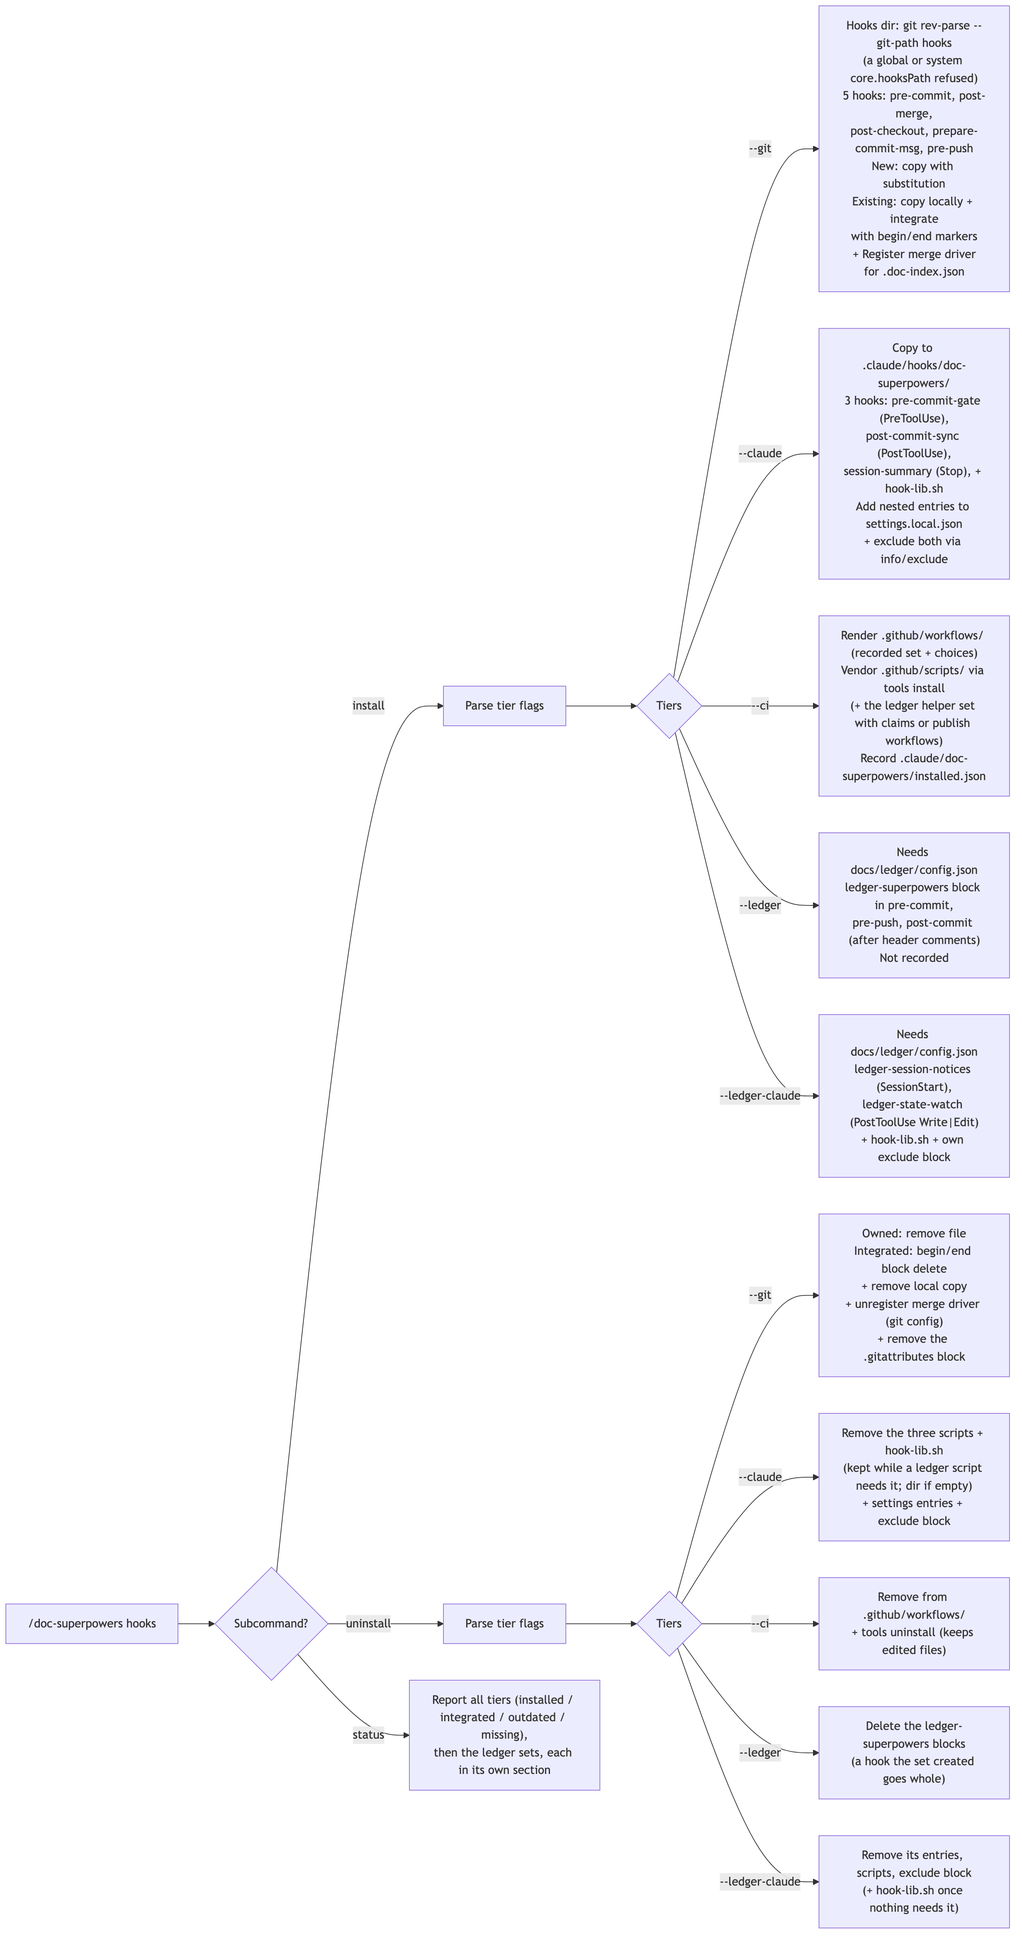
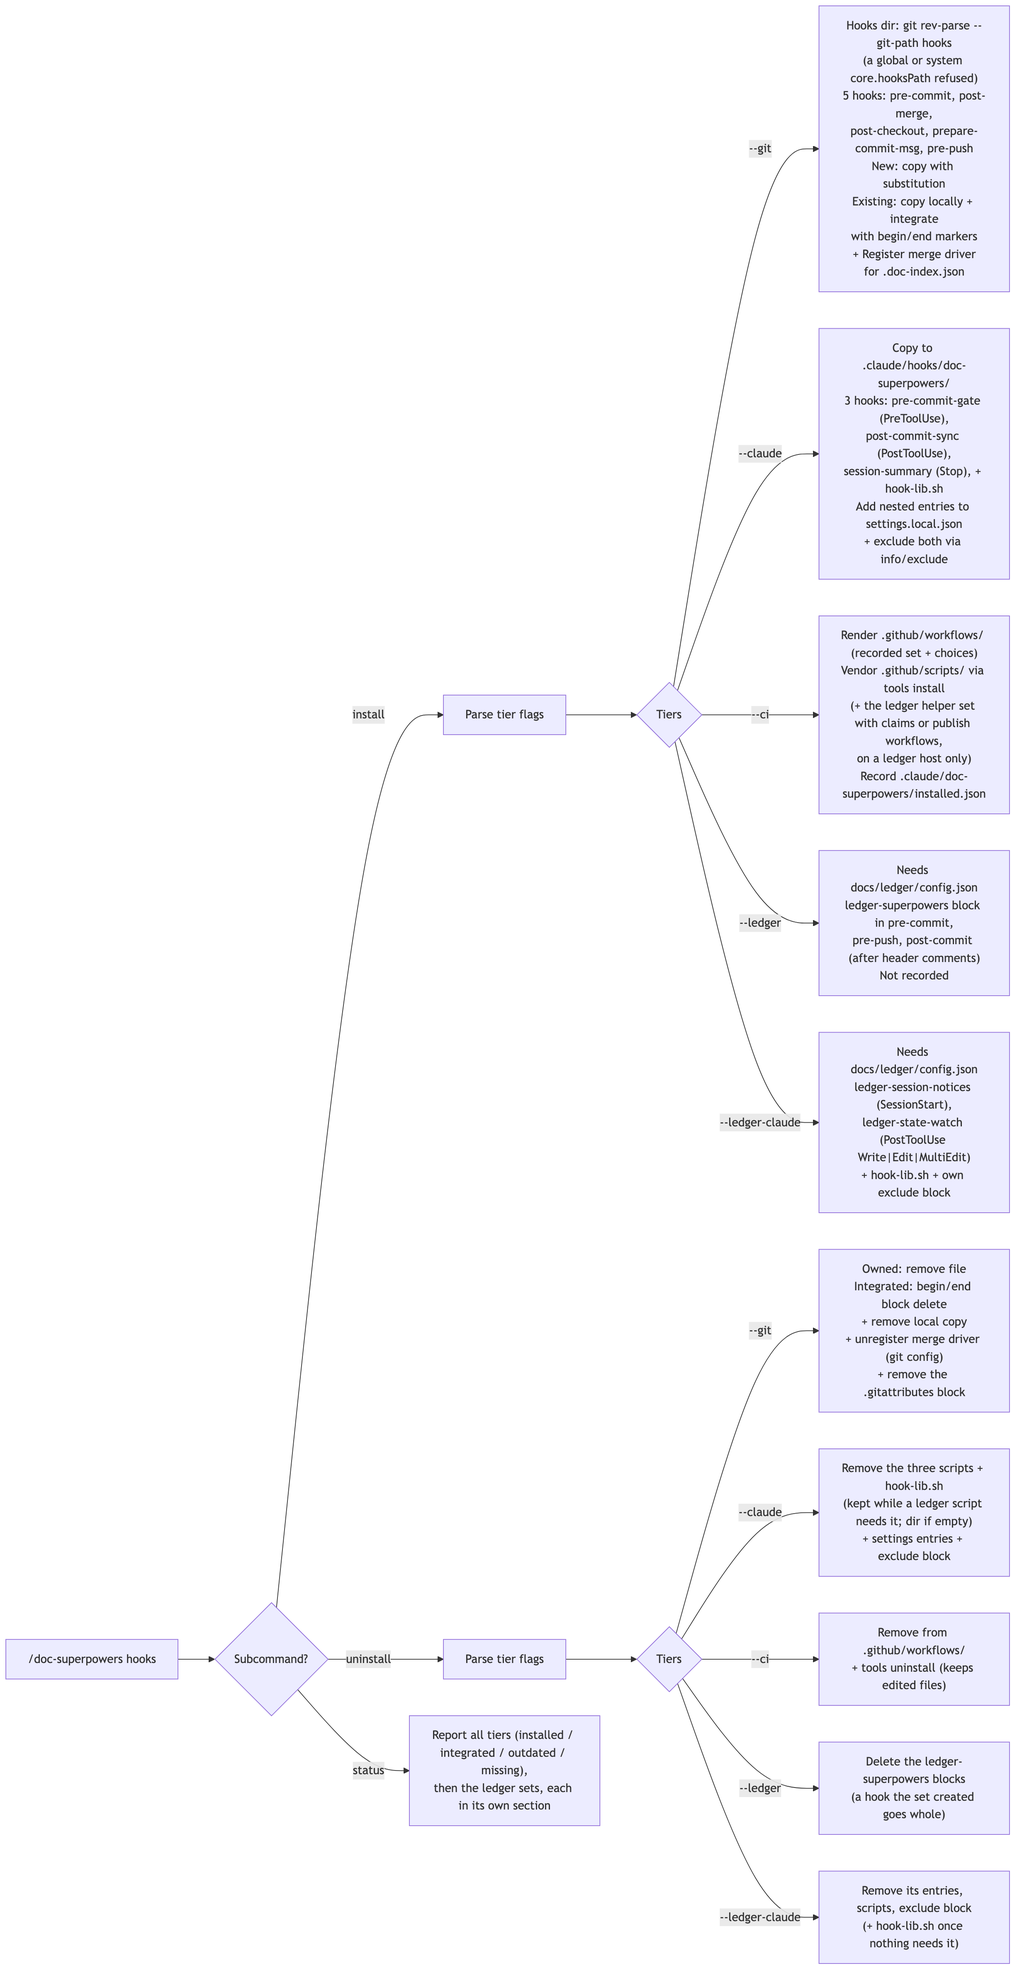
docs: suggest in the living docs; re-render workflow-hooks and c4-container
codebase-guide, system-overview, workflows and getting-started name the
suggest verb (19 ledger verbs). workflow-hooks.png shows the
Write|Edit|MultiEdit matcher and c4-container.png the 19 verbs, both
rendered with mmdc 11.6.0 and headless system Chrome (c4.wrap false,
width 1248, scale 2; same dimensions as before). The five docs Task 3
made stale were re-read and re-baselined with update-index.

diff --git a/docs/codebase-guide.md b/docs/codebase-guide.md
@@ -36,14 +36,14 @@ doc-superpowers/
 ├── gemini-extension.json # Gemini CLI extension manifest
 ├── package.json          # npm/OpenCode package metadata
 ├── scripts/
-│   ├── doc-tools.sh      # Bundled freshness tooling (build-index, check-freshness, update-index, add-entry, remove-entry, move-entry, set-code-refs, set-doc-type, deprecate-entry, status, audit-merges, bump-version, check-version, implementation-status, set-implementation, fragments {list, validate, merge}, tools {install, uninstall, status, version}, claims {validate, run, promote, render, gate, attest, rulings}, ledger {show, ls, find, related, sweep, recheck, inflight, notices, state-watch, new, assign, link, note, view, validate, publish, finalize, init})
+│   ├── doc-tools.sh      # Bundled freshness tooling (build-index, check-freshness, update-index, add-entry, remove-entry, move-entry, set-code-refs, set-doc-type, deprecate-entry, status, audit-merges, bump-version, check-version, implementation-status, set-implementation, fragments {list, validate, merge}, tools {install, uninstall, status, version}, claims {validate, run, promote, render, gate, attest, rulings}, ledger {show, ls, find, related, suggest, sweep, recheck, inflight, notices, state-watch, new, assign, link, note, view, validate, publish, finalize, init})
 │   ├── ledger/           # The work ledger, sourced by doc-tools.sh (_lg_enter) for a ledger verb in a repository with docs/ledger/config.json, for ledger init without one, and by claims V5 on a ledger host
 │   │   ├── lib.sh              # Config load/merge (config.jq), verdict helpers, the doc-index wrapper; sources the 12 modules below
 │   │   ├── parse.sh glob.sh    # Item parsing with a per-file cache (worktree, staged, base blobs); glob → ERE and path ownership
 │   │   ├── index.sh            # The index build, its joins (registry, doc-index, git, PRs, claims) and caches; derived status
 │   │   ├── keys.sh             # Resolution, the counter ref and its CAS, allocation, provisional keys, finalize; new, assign, finalize
 │   │   ├── validate.sh query.sh   # validate --staged|--all|--plan|--pushed|--registry; show, ls, find, new, link, note
-│   │   ├── relations.sh        # Contracts, neighbours, candidates, related, recheck, sweep, commit-trailer parsing
+│   │   ├── relations.sh        # Contracts, neighbours, candidates, related, recheck, suggest, sweep, commit-trailer parsing
 │   │   ├── views.sh adapters.sh   # view and publish; adapter calls, JSON-lines validation, the remote cache (TTL)
 │   │   ├── inflight.sh         # Branch scan, in-flight refs and facts, inflight, notices, acks, push, prune
 │   │   ├── init.sh hooks.sh    # ledger init (report, accept, import); the hook modes (notices --hook, state-watch --hook)
@@ -141,7 +141,7 @@ doc-superpowers/
 | File | Purpose | When to Modify |
 |------|---------|---------------|
 | `skills/doc-superpowers/SKILL.md` | Core skill logic: Quick Reference (actions + references), Safety Rules (trust boundary, secrets, confirm before moving docs, never auto-run repository scripts), discovery phase (tool resolution through `${CLAUDE_SKILL_DIR}/../..`, the index-write routing table, scopes, agentic inventory), 12 action handlers (init, audit, review-pr, update, diagram, sync, hooks, release, spec-generate, spec-inject, spec-verify, ledger — `release`, `hooks`, `ledger` and the spec actions hand their procedures to REQUIRED references), verification gates, error handling, common mistakes | Adding/changing actions, modifying agent behavior, updating discovery logic |
-| `scripts/doc-tools.sh` | Bundled freshness tooling with 19 subcommands: `build-index`, `check-freshness`, `update-index` (a baseline reset, never a verification: the only writer of `last_verified`), `add-entry`, `remove-entry`, `move-entry` (re-key an entry after a doc moves, preserving `code_refs`/`code_oids`/`code_commit`/`last_verified`, and repoint other entries' `replaces`/`superseded_by`/`code_refs`/`code_oids` naming it — the lossless alternative to `remove-entry` + `add-entry`; `--stdin` for a batch), `audit-merges` (replay index merges through the driver as an oracle, read-only), `set-code-refs` (change an entry's `code_refs` in place), `set-doc-type` (change an entry's `doc_type` in place: record or living doc), `deprecate-entry` (also sets the successor's `replaces`), `status`, `bump-version`, `check-version`, `implementation-status`, `set-implementation`, `fragments {list, validate, merge}`, `tools {install, uninstall, status, version}` (vendors doc-tools.sh + the CI helpers into a consumer repo; prints the plugin's version), `claims {validate, run, promote, render, gate, attest, rulings}` (executable spec claims, inert without `docs/spec-claims/`: `references/spec-claims.md`), `ledger {show, ls, find, related, sweep, recheck, inflight, notices, state-watch, new, assign, link, note, view, validate, publish, finalize, init}` (the work ledger, every verb but `init` inert without `docs/ledger/config.json`: `references/ledger.md`; `doc-tools.sh` holds its dispatch, inert check and verdict helpers, the verbs live in `scripts/ledger/`). Content hashing for docs, content identity for code (each code ref's git object id, `code_oids`, compared with one `git cat-file --batch-check`), SHA-256 hashing for per-PR release-notes fragments. Every write to `docs/.doc-index.json` goes through one locked, atomic writer (`_index_apply`; see Code Flow → "Index write path") | Changing staleness detection, index schema, version sync, fragment parsing, adding subcommands, changing how the index is persisted |
+| `scripts/doc-tools.sh` | Bundled freshness tooling with 19 subcommands: `build-index`, `check-freshness`, `update-index` (a baseline reset, never a verification: the only writer of `last_verified`), `add-entry`, `remove-entry`, `move-entry` (re-key an entry after a doc moves, preserving `code_refs`/`code_oids`/`code_commit`/`last_verified`, and repoint other entries' `replaces`/`superseded_by`/`code_refs`/`code_oids` naming it — the lossless alternative to `remove-entry` + `add-entry`; `--stdin` for a batch), `audit-merges` (replay index merges through the driver as an oracle, read-only), `set-code-refs` (change an entry's `code_refs` in place), `set-doc-type` (change an entry's `doc_type` in place: record or living doc), `deprecate-entry` (also sets the successor's `replaces`), `status`, `bump-version`, `check-version`, `implementation-status`, `set-implementation`, `fragments {list, validate, merge}`, `tools {install, uninstall, status, version}` (vendors doc-tools.sh + the CI helpers into a consumer repo; prints the plugin's version), `claims {validate, run, promote, render, gate, attest, rulings}` (executable spec claims, inert without `docs/spec-claims/`: `references/spec-claims.md`), `ledger {show, ls, find, related, suggest, sweep, recheck, inflight, notices, state-watch, new, assign, link, note, view, validate, publish, finalize, init}` (the work ledger, every verb but `init` inert without `docs/ledger/config.json`: `references/ledger.md`; `doc-tools.sh` holds its dispatch, inert check and verdict helpers, the verbs live in `scripts/ledger/`). Content hashing for docs, content identity for code (each code ref's git object id, `code_oids`, compared with one `git cat-file --batch-check`), SHA-256 hashing for per-PR release-notes fragments. Every write to `docs/.doc-index.json` goes through one locked, atomic writer (`_index_apply`; see Code Flow → "Index write path") | Changing staleness detection, index schema, version sync, fragment parsing, adding subcommands, changing how the index is persisted |
 | `scripts/test-doc-tools.sh` | Comprehensive test suite for doc-tools.sh — tests all subcommands (including `fragments`), edge cases, error handling; plus the static guards over the shipped scripts (no bash-4-only construct, no jq-1.7-only form in a jq program) | Adding tests for new doc-tools features |
 | `scripts/test-doc-pr-release.sh` | Test suite for the CI workflow helpers (on the shared `test-helpers.sh` harness) — covers `extract-context.sh`, `update-pr-body.sh`, `commit-and-push.sh`, the `run:` step scripts in `doc-superpowers-steps/` (run as a workflow step runs them, from an installed fixture), workflow YAML placeholder substitution, template structure/wiring, and the installed templates' rules (fail closed, scalar outputs, timeouts, pins, AI token/plugin/tools, same-repo guard, write group, checked commit) (missing YAML parser = loud SKIP locally, FAIL in CI) | Adding tests for the fragment producer workflow or its helpers |
 | `scripts/test-spec-claims.sh` | Test suite for the `claims` verb group (on the shared `test-helpers.sh` harness): one fixture per check V1–V12, the run / promote / gate / attest / rulings flows, the inert contract and replay fixtures, driven through `/bin/sh` stub adapters in throwaway fixture repos | Changing any `claims` verb, check, adapter contract or gate record |
@@ -417,7 +417,7 @@ User invokes /doc-superpowers hooks install --ledger [--ledger-claude] (never pa
 
 ### Work ledger (every `ledger` verb)
 
-The 18 <!-- T3: verify against code (suggest makes 19) --> `ledger` verbs share one path (`references/ledger.md` is the contract): `scripts/doc-tools.sh` dispatches and decides inertness, `scripts/ledger/` does the work.
+The 19 `ledger` verbs share one path (`references/ledger.md` is the contract): `scripts/doc-tools.sh` dispatches and decides inertness, `scripts/ledger/` does the work.
 
 ```
 doc-tools.sh ledger <verb> [options] [args]

diff --git a/docs/architecture/system-overview.md b/docs/architecture/system-overview.md
@@ -74,7 +74,7 @@ C4Container
     Container(templates, "Template System", "references/doc-spec.md", "Doc templates + agentic workflow templates + Mermaid syntax + naming conventions")
     Container(doctools, "Freshness Tooling", "scripts/doc-tools.sh", "19 subcommands: doc-index (build, check, update, add/remove/move/deprecate entries, set-code-refs, set-doc-type, status, audit-merges), version sync, ADR/SPEC realization, release-notes fragments, vendoring (tools), the claims verbs (Spec Claims) and the ledger verbs (Work Ledger)")
     Container(claims, "Spec Claims", "doc-tools.sh claims <verb>", "Opt-in executable spec claims (references/spec-claims.md): validate, run, promote, render, gate, attest, rulings. Inert without docs/spec-claims/. Own exit family: 0, 1 findings, 2 could not run (never a pass), 3 usage. With the ledger on, V5 reads item status classes")
-    Container(ledger, "Work Ledger", "scripts/ledger/ via doc-tools.sh ledger", "Opt-in (docs/ledger/config.json; references/ledger.md): 18 verbs over items, keys, views, related work, in-flight notices. Inert without the config. The claims exit family. bash 3.2 + jq")
+    Container(ledger, "Work Ledger", "scripts/ledger/ via doc-tools.sh ledger", "Opt-in (docs/ledger/config.json; references/ledger.md): 19 verbs over items, keys, views, related work, in-flight notices. Inert without the config. The claims exit family. bash 3.2 + jq")
     Container(verification, "Verification Gates", "SKILL.md Section 2 + update step 8", "Three-layer verification: agent evidence and freshness checks (Section 2), human review of the diff (update step 8)")
     Container(hooks, "Hooks Engine", "scripts/hooks/install.sh + state.sh", "3-tier opt-in installer (references/hooks.md): 5 git hooks, 3 per-user Claude Code hook scripts, CI workflow templates (shell set by default, the rest by name), the merge driver's registration; plus the ledger's opt-in sets (--ledger: 3 git legs; --ledger-claude: 2 events), never in --all. Records only the CI tier in installed.json")
     Container(mergedriver, "Merge Driver", "scripts/merge-doc-index.sh", "Base-aware per-key three-way merge of docs/.doc-index.json on merge, rebase, cherry-pick and revert. A separate jq program that does not call doc-tools.sh")
@@ -172,7 +172,7 @@ C4Container
 | Spec Lifecycle Protocol | `references/spec-lifecycle-protocol.md` | Integration guide defining input/output contracts for wrapper skill authors, and the claims Direction protocol (`CODE-DIVERGES`, `DOC-STALE`, `RETIRE`, its policy keys and their defaults) |
 | Spec Lifecycle Actions | `references/spec-lifecycle-actions.md` | REQUIRED reference for `spec-generate`, `spec-inject` and `spec-verify`: their detailed procedures and the canonical Spec Status Model |
 | Spec Claims | `scripts/doc-tools.sh claims <verb>` + `references/spec-claims.md` | Executable spec claims, opt-in: the directory `docs/spec-claims/` is the switch, and without it every verb prints `{"verb":…,"enabled":false,"exit":0}` (once its command line parses, its dependencies are present and it runs at a repository's top level). `references/spec-claims.md` is REQUIRED while the directory exists. Seven verbs (`validate`, `run`, `promote`, `render`, `gate`, `attest`, `rulings`) with their own exit family: `0`, `1` findings, `2` could not run (never reported as a pass), `3` usage; precedence 1 > 2 > 0. Stores: `config.json` and one sidecar `<DOC-ID>.json` per governing doc in `docs/spec-claims/`; the gate records `gates/<plan-stem>/chunk-<n>.json` and `final.json` (`gate` and `attest --final` write them even when red); the local verdict store `$(git rev-parse --git-common-dir)/spec-claims/promotions/` (never committed; `promote` writes it); each governing doc's generated `## Claim status` block (`render`, `promote`). Host adapters (a runner per test framework, a log adapter, a config adapter) run from the top level with stdin `/dev/null`, and their output is parsed fail-closed. A range is the branch's own work: its first-parent, non-merge commits plus each first-parent merge's own conflict resolutions (`git show --remerge-diff`, git ≥ 2.36) |
-| Work Ledger | `scripts/doc-tools.sh ledger <verb>` + `scripts/ledger/` + `scripts/adapters/` | The work ledger, opt-in: `docs/ledger/config.json` is the switch (`{}` is complete), and without it every verb but `init` prints `ledger: not enabled (no docs/ledger/config.json)` and exits 0. 18 verbs <!-- T3: verify against code (suggest makes 19) --> (`show`, `ls`, `find`, `related`, `sweep`, `recheck`, `inflight`, `notices`, `state-watch`, `new`, `assign`, `link`, `note`, `view`, `validate`, `publish`, `finalize`, `init`) sharing the claims exit family (`0`, `1` findings, `2` could not run, `3` usage). `scripts/ledger/lib.sh`, sourced by `doc-tools.sh` when a ledger verb runs in an enabled repository (and for `ledger init` without a config, and for the claims check V5 on a ledger host), sources twelve modules over `*.jq` and `*.awk` programs; bash 3.2 + jq ≥ 1.6, nothing else. Stores: `docs/ledger/` (config, registry, legacy and finalized maps), the item files, the cache `<git common dir>/doc-superpowers/ledger/` (never committed), and on the remote the key counter ref, the in-flight refs and the views branch. Adapters (`pr`, `contracts`, `items`; reference ones for GitHub through `gh`) run fail-closed and are cached by TTL; `DOC_TOOLS_LEDGER_OFFLINE=1` stops adapter runs, fetches and in-flight pushes (key allocation still reaches the counter ref) |
+| Work Ledger | `scripts/doc-tools.sh ledger <verb>` + `scripts/ledger/` + `scripts/adapters/` | The work ledger, opt-in: `docs/ledger/config.json` is the switch (`{}` is complete), and without it every verb but `init` prints `ledger: not enabled (no docs/ledger/config.json)` and exits 0. 19 verbs (`show`, `ls`, `find`, `related`, `suggest`, `sweep`, `recheck`, `inflight`, `notices`, `state-watch`, `new`, `assign`, `link`, `note`, `view`, `validate`, `publish`, `finalize`, `init`) sharing the claims exit family (`0`, `1` findings, `2` could not run, `3` usage). `scripts/ledger/lib.sh`, sourced by `doc-tools.sh` when a ledger verb runs in an enabled repository (and for `ledger init` without a config, and for the claims check V5 on a ledger host), sources twelve modules over `*.jq` and `*.awk` programs; bash 3.2 + jq ≥ 1.6, nothing else. Stores: `docs/ledger/` (config, registry, legacy and finalized maps), the item files, the cache `<git common dir>/doc-superpowers/ledger/` (never committed), and on the remote the key counter ref, the in-flight refs and the views branch. Adapters (`pr`, `contracts`, `items`; reference ones for GitHub through `gh`) run fail-closed and are cached by TTL; `DOC_TOOLS_LEDGER_OFFLINE=1` stops adapter runs, fetches and in-flight pushes (key allocation still reaches the counter ref) |
 | Work Ledger Reference | `references/ledger.md`, `references/ledger-index.schema.json` | REQUIRED reference for the `ledger` action and wherever `docs/ledger/config.json` exists: config keys and defaults, verbs and exit codes, keys, adapter contracts, in-flight privacy, hooks, `ledger init`; the schema is the index's shape (`ledger-index/1`) |
 | Release Procedure | `references/release.md` | REQUIRED reference for `release` (steps 1–12): range start, fragment merge, drafting agent, version bump, release commit, tag |
 | Hooks Procedure | `references/hooks.md` | REQUIRED reference for `hooks`: installer routing, the CI consent table (triggers, permissions, what each workflow may commit), and what an AI job's agent can reach |

diff --git a/docs/workflows/doc-superpowers.md b/docs/workflows/doc-superpowers.md
@@ -824,7 +824,7 @@ Claims are enabled when `docs/spec-claims/` exists. The chunk gate and the final
 | `scripts/doc-tools.sh` — `set-implementation` | Writes one entry of an ADR's `Implementation:` or a SPEC's `Realized-by:` block; `update-index` records the entries in the index | No flow above calls it |
 | `scripts/doc-tools.sh` — `bump-version`, `check-version`, `fragments list` / `validate` / `merge` | Write and verify the version in the manifests the project has; list, validate and merge the per-PR release-notes fragments | `release` (steps 3, 8, 9); the CI release templates |
 | `scripts/doc-tools.sh` — `claims validate` / `run` / `promote` / `render` / `gate` / `attest` / `rulings` | Executable spec claims (`references/spec-claims.md`): check sidecars and claims, run claim-bound checks, prove and promote a test claim to `built`, render a doc's claim status block, record the chunk and final gate verdicts, print the amendment batch. Every verb is inert (`enabled: false`, exit 0) without `docs/spec-claims/` | `spec-generate`, `spec-inject` (the gate tasks it injects), `spec-verify`; the git hooks and the CI claims step |
-| `scripts/doc-tools.sh` — `ledger show` / `ls` / `find` / `related` / `suggest` <!-- T3: verify against code --> / `sweep` / `recheck` / `inflight` / `notices` / `state-watch` / `new` / `assign` / `link` / `note` / `view` / `validate` / `publish` / `finalize` / `init` | The work ledger (`references/ledger.md`): keyed items, generated views, related work, in-flight notices; every verb but `init` inert without `docs/ledger/config.json`; the claims exit family | `init` (step 12b: `init --report`, `--accept`), `spec-inject` (`sweep`, `validate --plan`, the injected `notices --gate` task), the ledger hooks (`validate --staged`, `--pushed`, `inflight --push`, the two hook modes), `doc-ledger-publish.yml` (`publish`), the `ledger` action; standalone |
+| `scripts/doc-tools.sh` — `ledger show` / `ls` / `find` / `related` / `suggest` / `sweep` / `recheck` / `inflight` / `notices` / `state-watch` / `new` / `assign` / `link` / `note` / `view` / `validate` / `publish` / `finalize` / `init` | The work ledger (`references/ledger.md`): keyed items, generated views, related work, in-flight notices; every verb but `init` inert without `docs/ledger/config.json`; the claims exit family | `init` (step 12b: `init --report`, `--accept`), `spec-inject` (`sweep`, `validate --plan`, the injected `notices --gate` task), the ledger hooks (`validate --staged`, `--pushed`, `inflight --push`, the two hook modes), `doc-ledger-publish.yml` (`publish`), the `ledger` action; standalone |
 | `scripts/ledger/*.sh`, `*.jq`, `*.awk` | The ledger's engine: `lib.sh` (sourced by `doc-tools.sh` for a ledger verb in an enabled repository, for `ledger init` without a config, and for the claims check V5 on a ledger host) and its twelve modules over the jq and awk programs | `doc-tools.sh ledger` |
 | `scripts/adapters/ledger-pr-gh.sh`, `ledger-items-gh.sh` | Reference ledger adapters (GitHub PRs; hosted items as GitHub issues), addressed as `doc-superpowers:<name>` | The ledger, when a config names them |
 | `scripts/doc-tools.sh` — `tools install` / `uninstall` / `status` / `version` | Vendor `doc-tools.sh` and the CI helpers (the ledger set included) into a repo (see **`tools` Subcommand**) | `hooks install --ci`; standalone |

diff --git a/docs/guides/getting-started.md b/docs/guides/getting-started.md
@@ -229,6 +229,7 @@ $DOC_TOOLS ledger ls --ledger checkout --open      # one line per item
 $DOC_TOOLS ledger show checkout-14                 # one item in ≤ 25 lines
 $DOC_TOOLS ledger new --ledger checkout --summary "Totals round twice on refunds"   # a key for a new issue
 $DOC_TOOLS ledger note checkout-14 "repro on staging"                              # the one home for item state
+$DOC_TOOLS ledger suggest checkout-14              # contracts it might declare (writes nothing)
 $DOC_TOOLS ledger link checkout-14 --consumes field:order.total                    # declare a relation you confirmed
 $DOC_TOOLS ledger view all --html --open           # render the views locally
 $DOC_TOOLS ledger validate --all                   # every item and key (add --registry for the registry)
